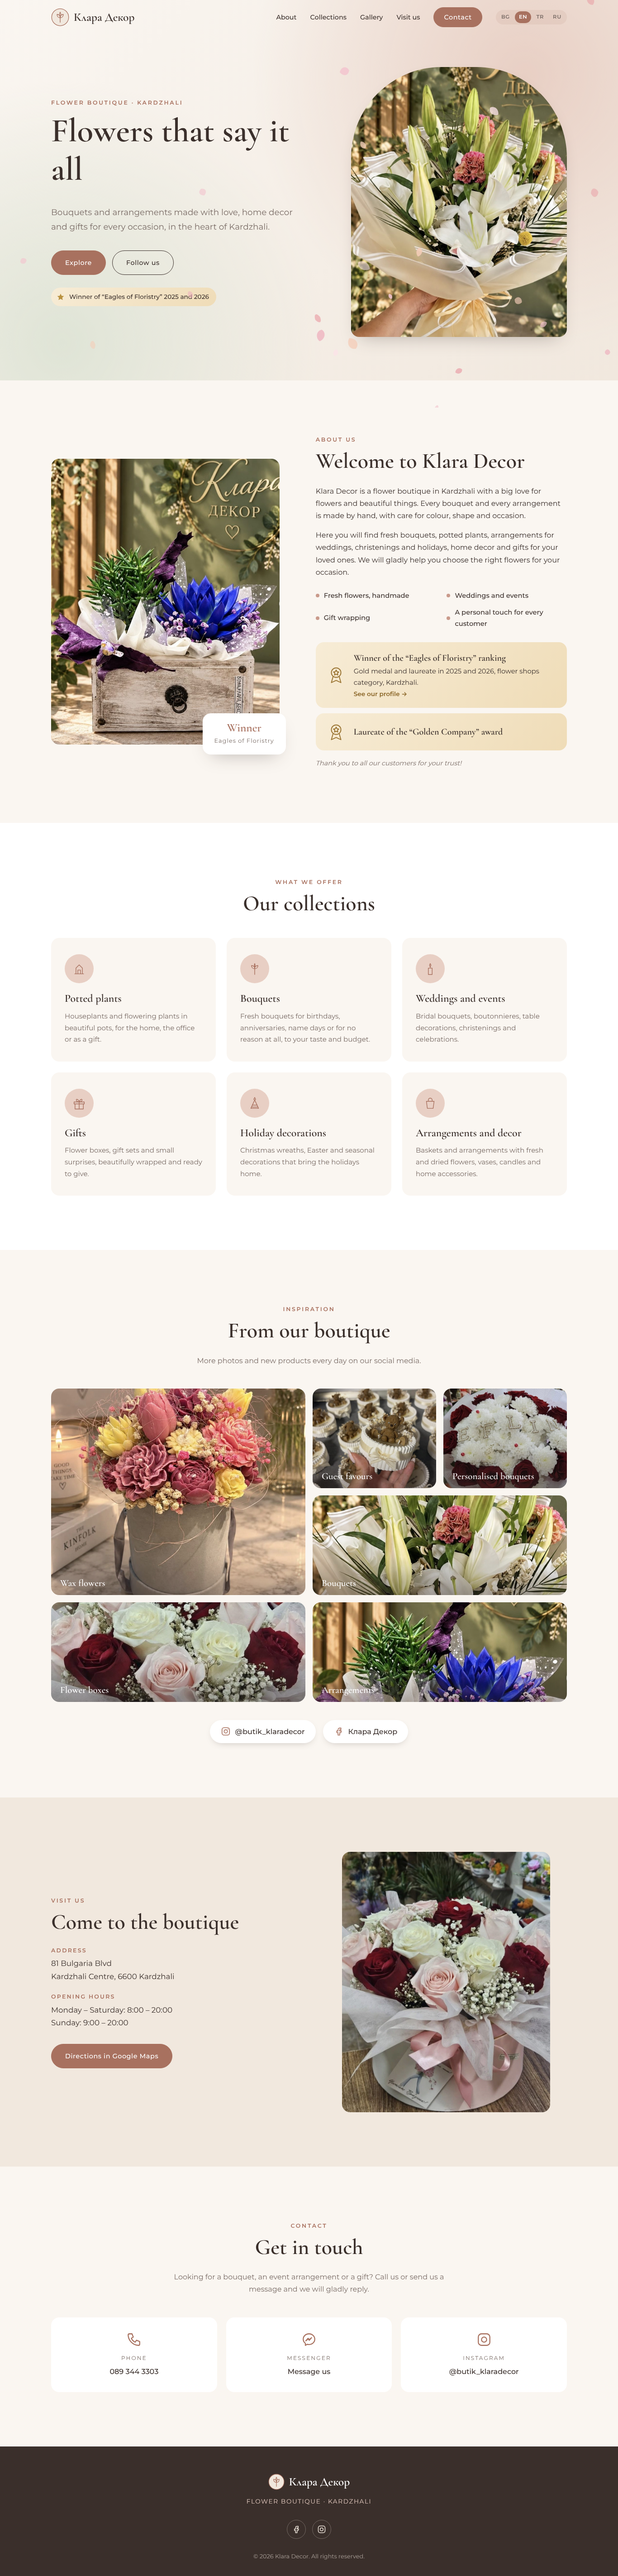
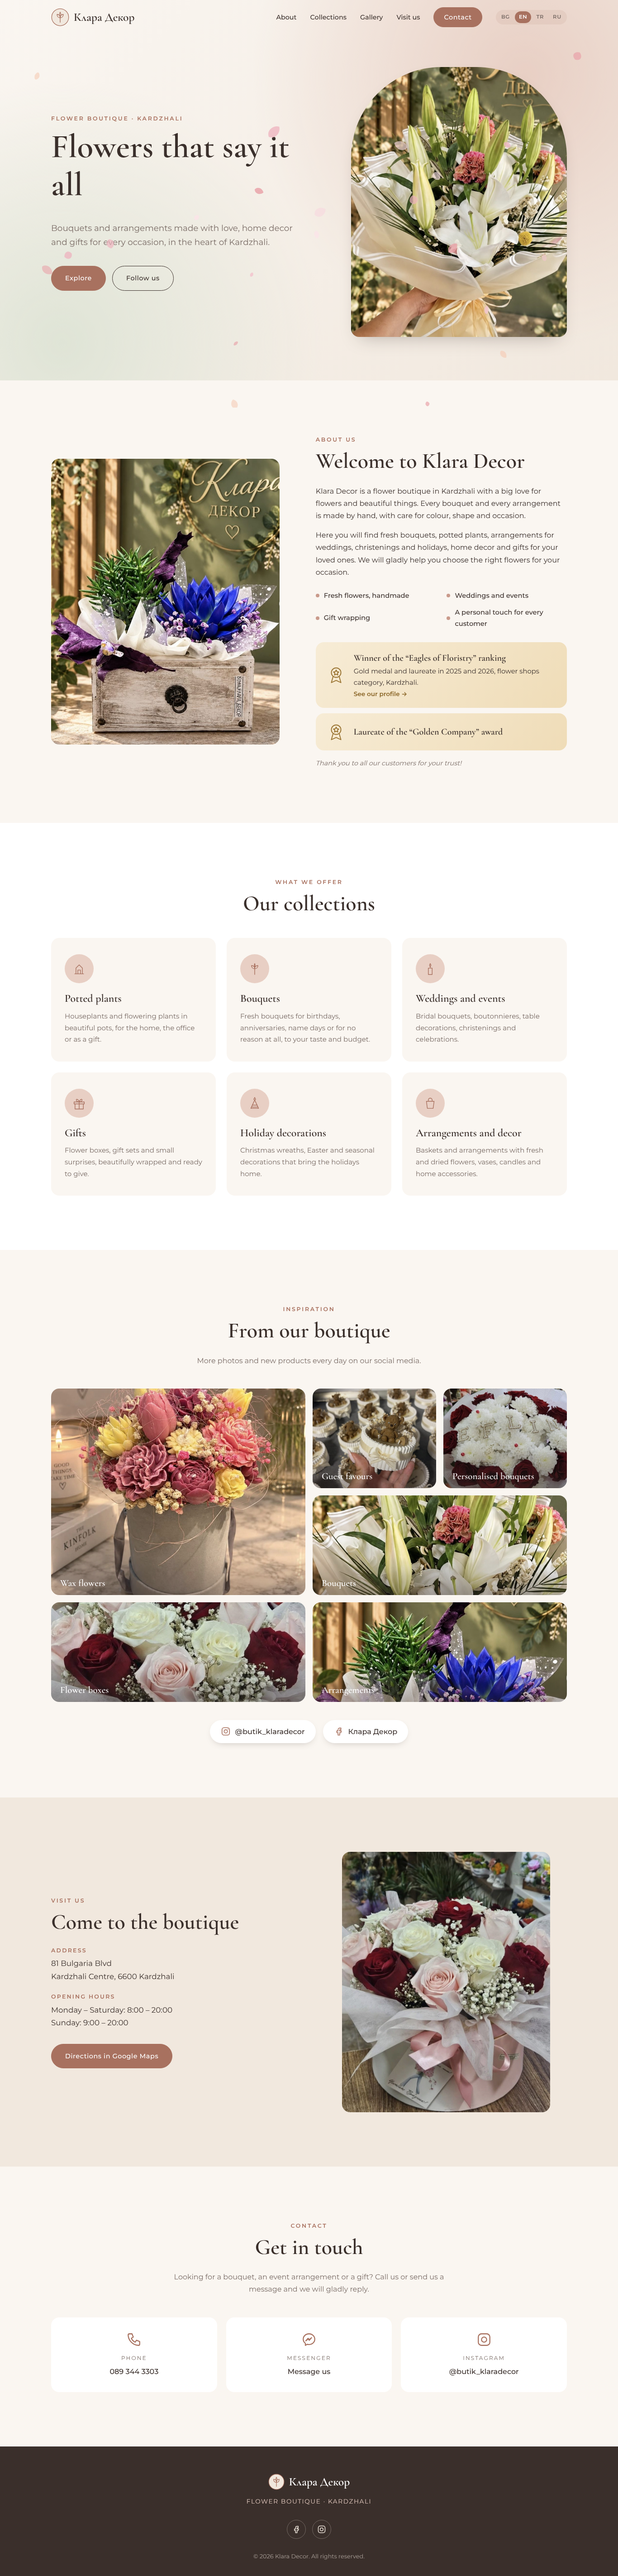
Polish mobile layout
- Arch hero photo and side-by-side buttons
- Compact collection and contact rows
- Swipeable gallery carousel
- Sticky bottom bar with call, directions and Messenger
Desktop layout is unchanged.

Claude-Session: https://claude.ai/code/session_01T2XHJRKKYmC6x3FhMEUDKk

diff --git a/assets/style.css b/assets/style.css
@@ -327,3 +327,103 @@ p { margin: 0 0 1em; }
 .award a { color: #8a6526; font-weight: 600; font-size: .85rem; text-decoration: none; }
 .award a:hover { text-decoration: underline; }
 .award-thanks { margin: 4px 0 0; font-size: .9rem; color: var(--muted); font-style: italic; }
+
+/* ---------- Mobile polish (desktop is untouched) ---------- */
+.mobile-bar { display: none; }
+
+@media (max-width: 820px) {
+  .section { padding: 64px 0; }
+  .section-head { margin-bottom: 32px; }
+  h2 { font-size: 2.1rem; }
+
+  /* Hero: arch photo, buttons side by side */
+  .hero { padding: 100px 0 56px; }
+  .hero h1 { font-size: 2.6rem; }
+  .lead { font-size: 1.02rem; margin-bottom: 1.6em; }
+  .hero-actions { flex-wrap: nowrap; gap: 10px; }
+  .hero-actions .btn { flex: 1; text-align: center; padding: 13px 12px; white-space: nowrap; }
+  .hero-photo {
+    max-width: 100%; width: 100%; aspect-ratio: 4/5;
+    border-radius: 999px 999px var(--radius) var(--radius);
+    margin-top: 8px;
+  }
+
+  /* About: arch photo to match the hero */
+  .about-media { max-width: 100%; }
+  .photo-about { aspect-ratio: 1; border-radius: var(--radius); }
+  .features { grid-template-columns: 1fr 1fr; gap: 10px 14px; }
+  .features li { font-size: .86rem; align-items: flex-start; }
+  .features .dot { margin-top: .55em; }
+  .award { padding: 16px 18px; gap: 14px; }
+  .award svg { width: 38px; height: 38px; }
+  .award strong { font-size: 1.12rem; }
+
+  /* Collections: compact rows instead of tall cards */
+  .cards { grid-template-columns: 1fr; gap: 12px; }
+  .card {
+    display: grid; grid-template-columns: 52px 1fr; column-gap: 16px; align-items: start;
+    padding: 18px;
+  }
+  .card:hover { transform: none; box-shadow: none; }
+  .card-icon { width: 52px; height: 52px; margin: 0; grid-row: span 2; }
+  .card-icon svg { width: 28px; height: 28px; }
+  .card h3 { font-size: 1.3rem; margin: 2px 0 4px; }
+  .card p { font-size: .88rem; line-height: 1.55; }
+
+  /* Gallery: swipeable carousel */
+  .gallery-grid {
+    display: flex; gap: 12px;
+    overflow-x: auto; scroll-snap-type: x mandatory;
+    margin: 0 -16px; padding: 0 16px 8px;
+    scrollbar-width: none;
+  }
+  .gallery-grid::-webkit-scrollbar { display: none; }
+  .gallery-grid .photo {
+    flex: 0 0 78%; aspect-ratio: 4/5; height: auto;
+    scroll-snap-align: center;
+    background-position: center;
+  }
+  .gallery-grid figcaption { font-size: 1.2rem; padding: 48px 16px 14px; transform: none; opacity: 1; }
+  .social-cta { gap: 10px; flex-wrap: nowrap; margin-top: 28px; }
+  .social-link { padding: 10px 16px; font-size: .85rem; gap: 8px; }
+  .social-link svg { width: 18px; height: 18px; }
+
+  /* Visit */
+  .photo-visit { max-width: 100%; aspect-ratio: 4/3; }
+  .visit-card .btn { width: 100%; text-align: center; }
+
+  /* Contact: compact rows */
+  .contact-grid { grid-template-columns: 1fr; gap: 10px; }
+  .contact-item {
+    display: grid; grid-template-columns: 44px 1fr; grid-template-rows: auto auto;
+    column-gap: 14px; text-align: left; align-items: center; justify-items: start;
+    padding: 16px 18px;
+  }
+  .contact-item svg { grid-row: span 2; width: 28px; height: 28px; margin: 0; justify-self: center; }
+  .contact-item .label { font-size: .68rem; }
+  .contact-item .value { font-size: 1.02rem; }
+
+  /* Sticky quick-action bar */
+  .site-footer { padding-bottom: calc(100px + env(safe-area-inset-bottom, 0px)); }
+  .mobile-bar {
+    display: grid; grid-template-columns: 1.3fr 1fr 1fr; gap: 8px;
+    position: fixed; left: 0; right: 0; bottom: 0; z-index: 45;
+    padding: 10px 12px calc(10px + env(safe-area-inset-bottom, 0px));
+    background: rgba(250, 246, 241, .94); backdrop-filter: blur(10px);
+    box-shadow: 0 -1px 0 rgba(58,47,43,.08), 0 -8px 24px -12px rgba(58,47,43,.25);
+  }
+  .mobile-bar a {
+    display: flex; align-items: center; justify-content: center; gap: 7px;
+    height: 46px; border-radius: 999px;
+    text-decoration: none; font-size: .82rem; font-weight: 600;
+    background: var(--white); color: var(--ink);
+  }
+  .mobile-bar a.mobile-bar-call { background: var(--rose-dark); color: var(--white); }
+  .mobile-bar svg { width: 18px; height: 18px; fill: none; stroke: currentColor; stroke-width: 1.8; stroke-linejoin: round; flex: none; }
+}
+
+@media (max-width: 380px) {
+  .hero h1 { font-size: 2.3rem; }
+  .features { grid-template-columns: 1fr; }
+  .mobile-bar a { font-size: .76rem; gap: 5px; }
+}

diff --git a/index.html b/index.html
@@ -13,7 +13,7 @@
   <link rel="preconnect" href="https://fonts.googleapis.com">
   <link rel="preconnect" href="https://fonts.gstatic.com" crossorigin>
   <link href="https://fonts.googleapis.com/css2?family=Cormorant+Garamond:ital,wght@0,500;0,600;1,500&family=Montserrat:wght@300;400;500;600&display=swap&subset=cyrillic" rel="stylesheet">
-  <link rel="stylesheet" href="assets/style.css?v=202610131631">
+  <link rel="stylesheet" href="assets/style.css?v=202610131642">
 </head>
 <body>
 
@@ -245,8 +245,23 @@
     </div>
   </footer>
 
+  <nav class="mobile-bar" aria-label="Бързи връзки">
+    <a href="tel:+359893443303" class="mobile-bar-call">
+      <svg viewBox="0 0 24 24" aria-hidden="true"><path d="M5 3h4l2 5-3 2a12 12 0 0 0 6 6l2-3 5 2v4a2 2 0 0 1-2 2A17 17 0 0 1 3 5a2 2 0 0 1 2-2z"/></svg>
+      <span data-i18n="bar.call">Обадете се</span>
+    </a>
+    <a href="https://www.google.com/maps/search/?api=1&query=%D0%9A%D0%BB%D0%B0%D1%80%D0%B0+%D0%94%D0%B5%D0%BA%D0%BE%D1%80%2C+%D0%B1%D1%83%D0%BB.+%D0%91%D1%8A%D0%BB%D0%B3%D0%B0%D1%80%D0%B8%D1%8F+81%2C+6600+%D0%9A%D1%8A%D1%80%D0%B4%D0%B6%D0%B0%D0%BB%D0%B8" target="_blank" rel="noopener">
+      <svg viewBox="0 0 24 24" aria-hidden="true"><path d="M12 21s-7-6.3-7-11.5A7 7 0 0 1 19 9.5C19 14.7 12 21 12 21z"/><circle cx="12" cy="9.5" r="2.5"/></svg>
+      <span data-i18n="bar.route">Упътване</span>
+    </a>
+    <a href="https://m.me/KlaraDecor" target="_blank" rel="noopener">
+      <svg viewBox="0 0 24 24" aria-hidden="true"><path d="M12 3C7 3 3 6.7 3 11.3c0 2.6 1.3 4.9 3.3 6.4V21l3-1.7c.9.3 1.8.4 2.7.4 5 0 9-3.7 9-8.3S17 3 12 3z"/></svg>
+      <span>Messenger</span>
+    </a>
+  </nav>
+
   <canvas id="petals" aria-hidden="true"></canvas>
-  <script src="assets/i18n.js?v=202610131631"></script>
-  <script src="assets/main.js?v=202610131631"></script>
+  <script src="assets/i18n.js?v=202610131642"></script>
+  <script src="assets/main.js?v=202610131642"></script>
 </body>
 </html>

diff --git a/assets/i18n.js b/assets/i18n.js
@@ -1,6 +1,8 @@
 // Translations. Bulgarian (bg) is the text in index.html; it is read from the page at startup.
 window.I18N = {
   en: {
+    "bar.call": "Call us",
+    "bar.route": "Directions",
     "meta.title": "Klara Decor | Flower boutique in Kardzhali",
     "meta.description": "Klara Decor is a flower boutique in Kardzhali: bouquets, arrangements, potted plants, home decor and gifts. Winner of the “Eagles of Floristry” ranking and laureate of the “Golden Company” award.",
     "nav.menu": "Menu",
@@ -67,6 +69,8 @@ window.I18N = {
     "footer.rights": "Klara Decor. All rights reserved."
   },
   tr: {
+    "bar.call": "Bizi arayın",
+    "bar.route": "Yol tarifi",
     "meta.title": "Klara Dekor | Kırcaali'de çiçek butiği",
     "meta.description": "Klara Dekor, Kırcaali'de bir çiçek butiğidir: buketler, aranjmanlar, saksı çiçekleri, ev dekorasyonu ve hediyeler. “Çiçekçiliğin Kartalları” sıralamasının kazananı ve “Altın Firma” ödülü sahibi.",
     "nav.menu": "Menü",
@@ -133,6 +137,8 @@ window.I18N = {
     "footer.rights": "Klara Dekor. Tüm hakları saklıdır."
   },
   ru: {
+    "bar.call": "Позвонить",
+    "bar.route": "Маршрут",
     "meta.title": "Клара Декор | Цветочный бутик в Кырджали",
     "meta.description": "Клара Декор — цветочный бутик в Кырджали: букеты, композиции, комнатные растения, декор и подарки. Победитель рейтинга «Орлы цветоводства» и лауреат конкурса «Золотая фирма».",
     "nav.menu": "Меню",
